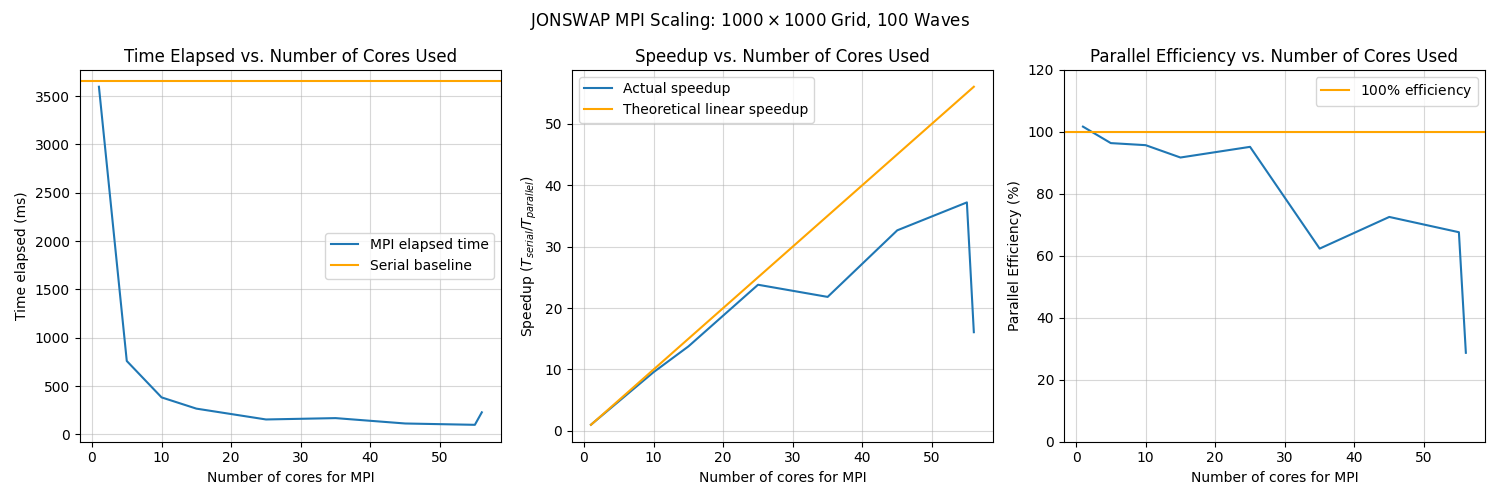
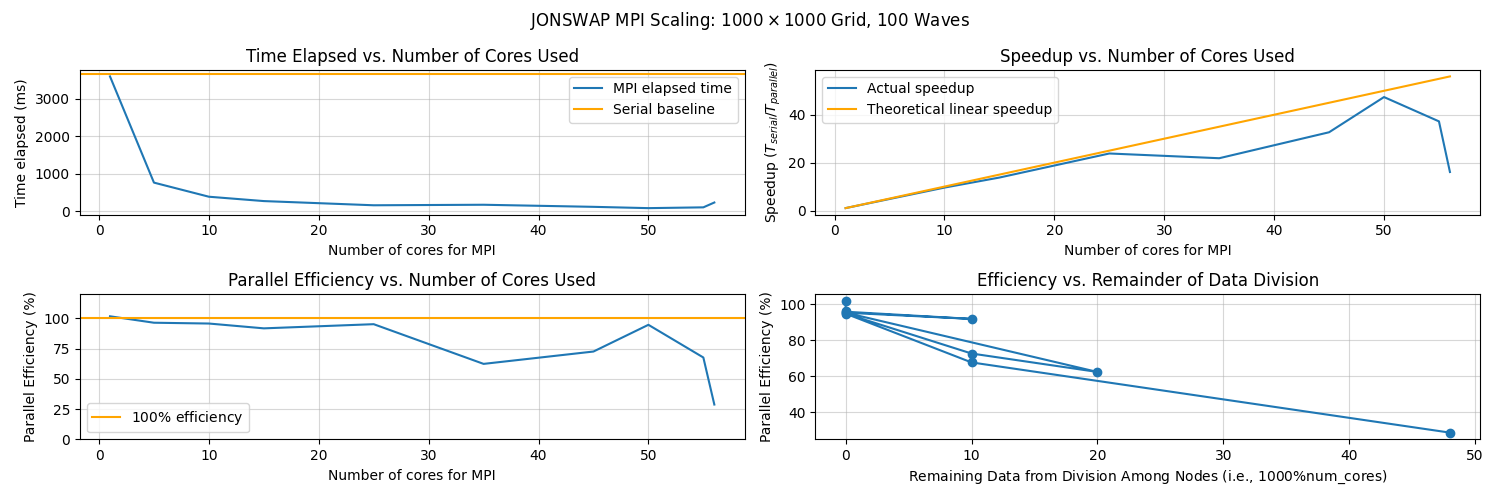
Fix code

diff --git a/utils/plot_wave_gen_perf.py b/utils/plot_wave_gen_perf.py
@@ -1,20 +1,22 @@
 import matplotlib.pyplot as plt
 import numpy as np
 
-num_cores = [1, 5, 10, 15, 25, 35, 45, 55, 56]
-serial_time = [3597.34, 3619.59, 3617.07, 3617.74, 3622.22, 3640.81, 3654.53, 3777.12, 3771.99]
-mpi_time = [3597.34, 759.17, 382.22, 265.89, 153.76, 167.70, 112.06, 98.37, 227.67]
+num_cores = [1, 5, 10, 15, 25, 35, 45, 50, 55, 56]
+serial_time = [3597.34, 3619.59, 3617.07, 3617.74, 3622.22, 3640.81, 3654.53, 3705.02, 3777.12, 3771.99]
+mpi_time = [3597.34, 759.17, 382.22, 265.89, 153.76, 167.70, 112.06, 77.30, 98.37, 227.67]
 
 serial_baseline = np.mean(serial_time)
 linear_speedup = [serial_baseline / (serial_baseline / r) for r in num_cores]
 actual_speedup = [serial_baseline / t for t in mpi_time]
 efficiency_pct = [(s / r) * 100 for s, r in zip(actual_speedup, num_cores)]
+remainders = [1000 % r for r in num_cores]
+print(remainders)
 
-fig, axes = plt.subplots(1, 3, figsize=(15, 5))
+fig, axes = plt.subplots(2, 2, figsize=(15, 5))
 fig.suptitle("JONSWAP MPI Scaling: $1000\\times1000$ Grid, $100$ Waves")
 
 # timing
-ax = axes[0]
+ax = axes[0][0]
 ax.plot(num_cores, mpi_time, label='MPI elapsed time')
 ax.axhline(serial_baseline, label=f'Serial baseline', color='orange')
 ax.set_xlabel("Number of cores for MPI")
@@ -24,7 +26,7 @@ ax.legend()
 ax.grid(True, alpha=0.5)
 
 # speedup data
-ax = axes[1]
+ax = axes[0][1]
 ax.plot(num_cores, actual_speedup, label='Actual speedup')
 ax.plot(num_cores, linear_speedup, label='Theoretical linear speedup', color='orange')
 ax.set_xlabel("Number of cores for MPI")
@@ -34,7 +36,7 @@ ax.legend()
 ax.grid(True, alpha=0.5)
 
 # efficiency data
-ax = axes[2]
+ax = axes[1][0]
 ax.plot(num_cores, efficiency_pct)
 ax.axhline(100, label='$100\\%$ efficiency', color='orange')
 ax.set_xlabel("Number of cores for MPI")
@@ -43,6 +45,14 @@ ax.set_title("Parallel Efficiency vs. Number of Cores Used")
 ax.legend()
 ax.grid(True, alpha=0.5)
 ax.set_ylim(0, 120)
+
+# division remainders
+ax = axes[1][1]
+ax.plot(remainders, efficiency_pct, marker='o')
+ax.set_xlabel("Remaining Data from Division Among Nodes (i.e., $1000 \\% \\text{num_cores}$)")
+ax.set_ylabel("Parallel Efficiency (%)")
+ax.set_title("Efficiency vs. Remainder of Data Division")
+ax.grid(True, alpha=0.5)
 
 plt.tight_layout()
 plt.savefig("results/jonswap_wave_gen_perf_graphs.png")
